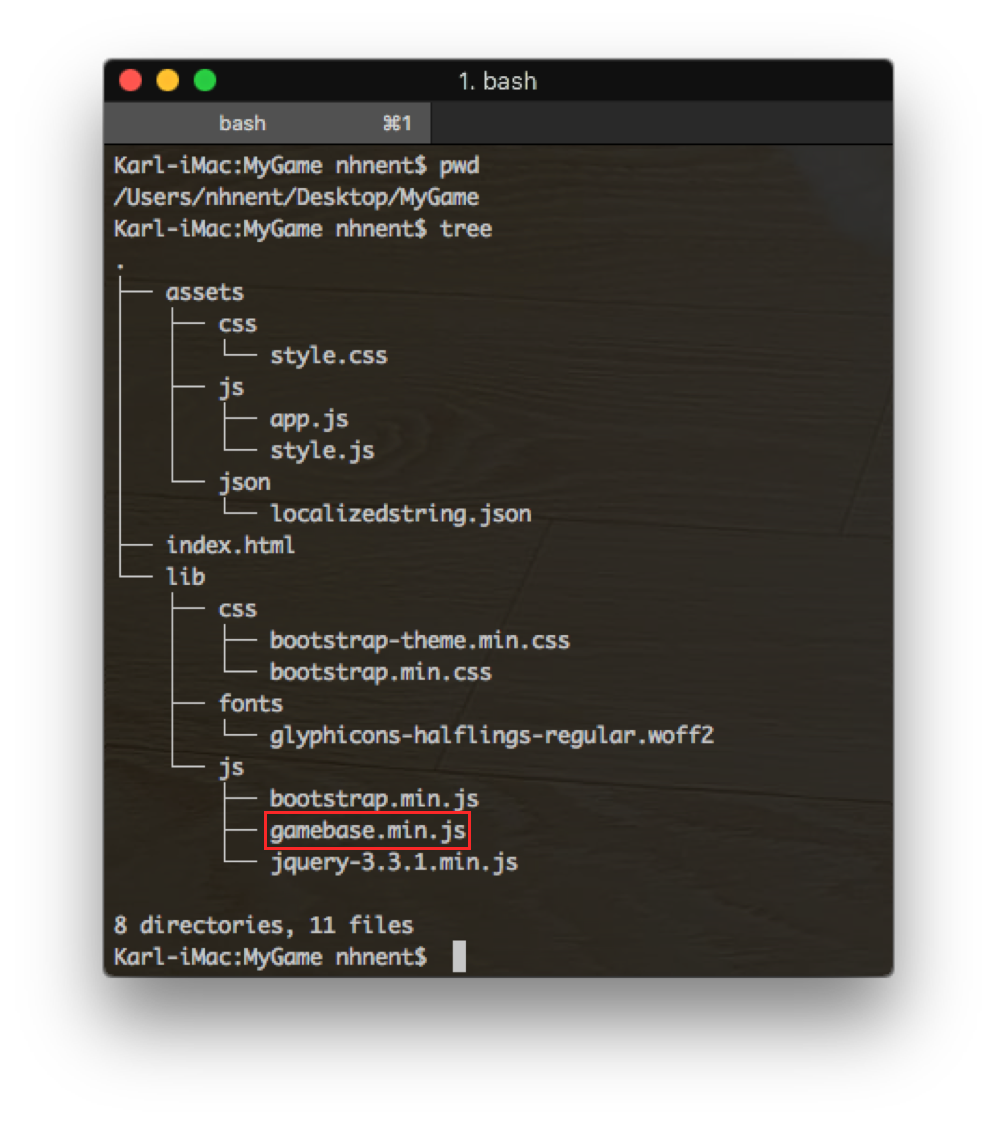
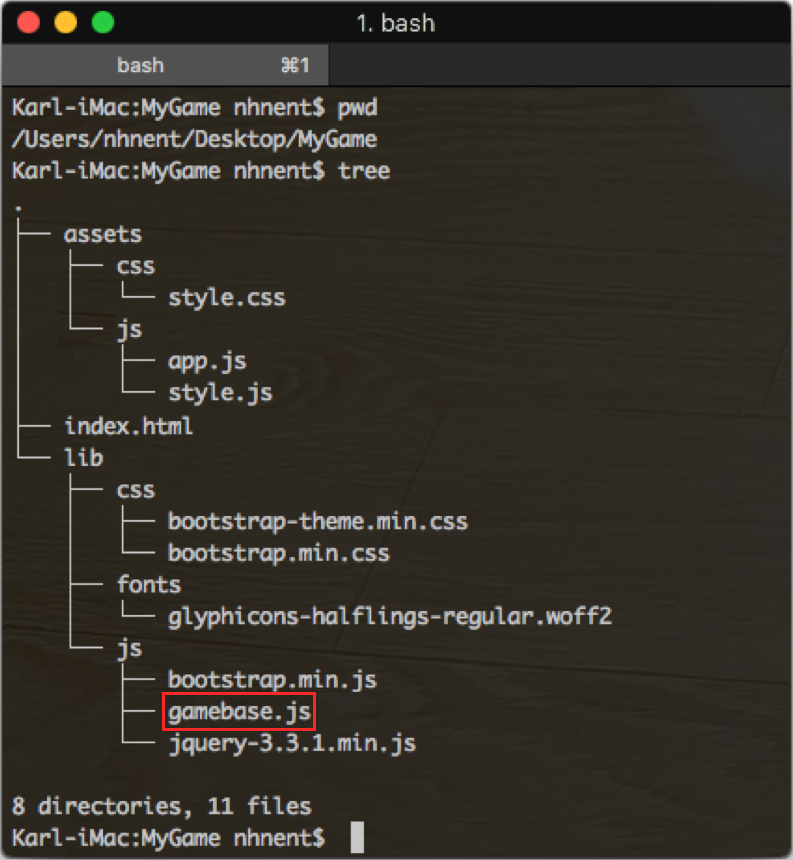
Modify feedback

diff --git a/site/03.rst b/site/03.rst
@@ -148,7 +148,7 @@ Example
     <!DOCTYPE html>
     <html>
     <head>
-      <script src="/assets/lib/gamebase.min.js"></script>
+      <script src="/assets/lib/gamebase.js"></script>
     </head>
     <body>
       <button id="gbInitBtn">Gamebase 초기화</button>
@@ -248,5 +248,3 @@ Example
     }
 
 .. raw:: html
-
-    </div>

diff --git a/site/04.rst b/site/04.rst
@@ -96,7 +96,7 @@ Example
     <!DOCTYPE html>
     <html>
     <head>
-      <script src="/assets/lib/gamebase.min.js"></script>
+      <script src="/assets/lib/gamebase.js"></script>
     </head>
     <body>
       <button id="gbInitBtn">Gamebase 초기화</button>

diff --git a/site/index.rst b/site/index.rst
@@ -5,7 +5,7 @@ Gamebase JavaScript Guest 인증하기
 * 카테고리: API
 * 레벨: 초급
 * 시간: 15분
-* 업데이트: 2018.09.06
+* 업데이트: 2020.11.17
 
 
 .. toctree:: 
